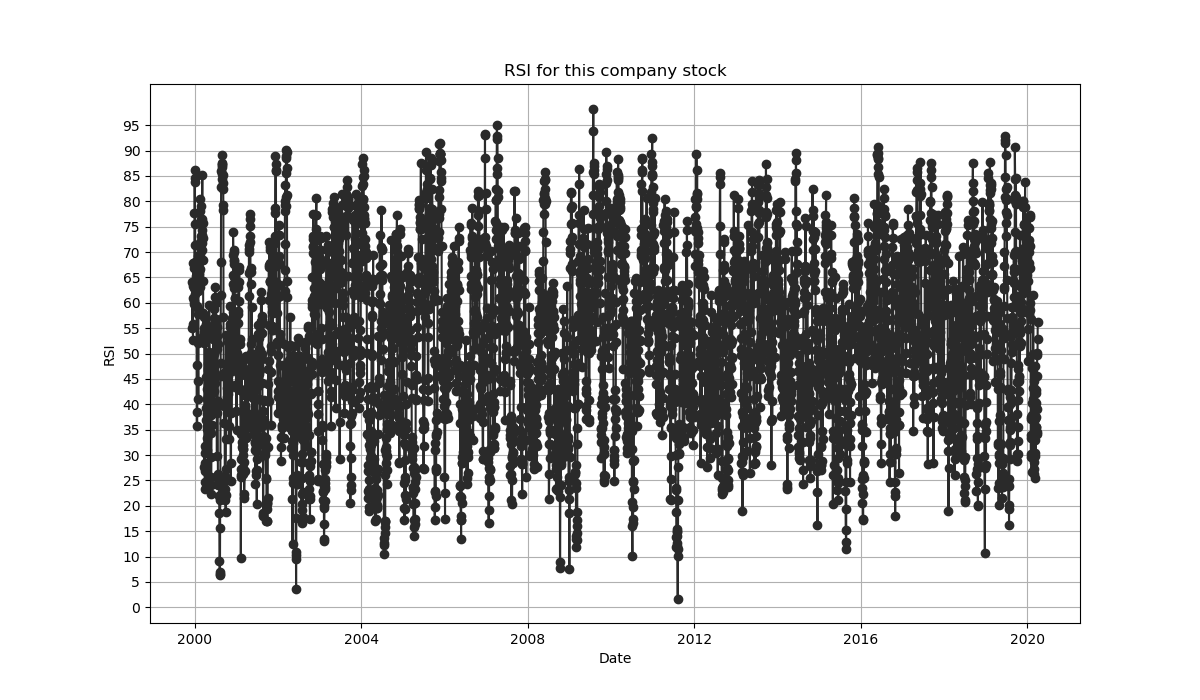
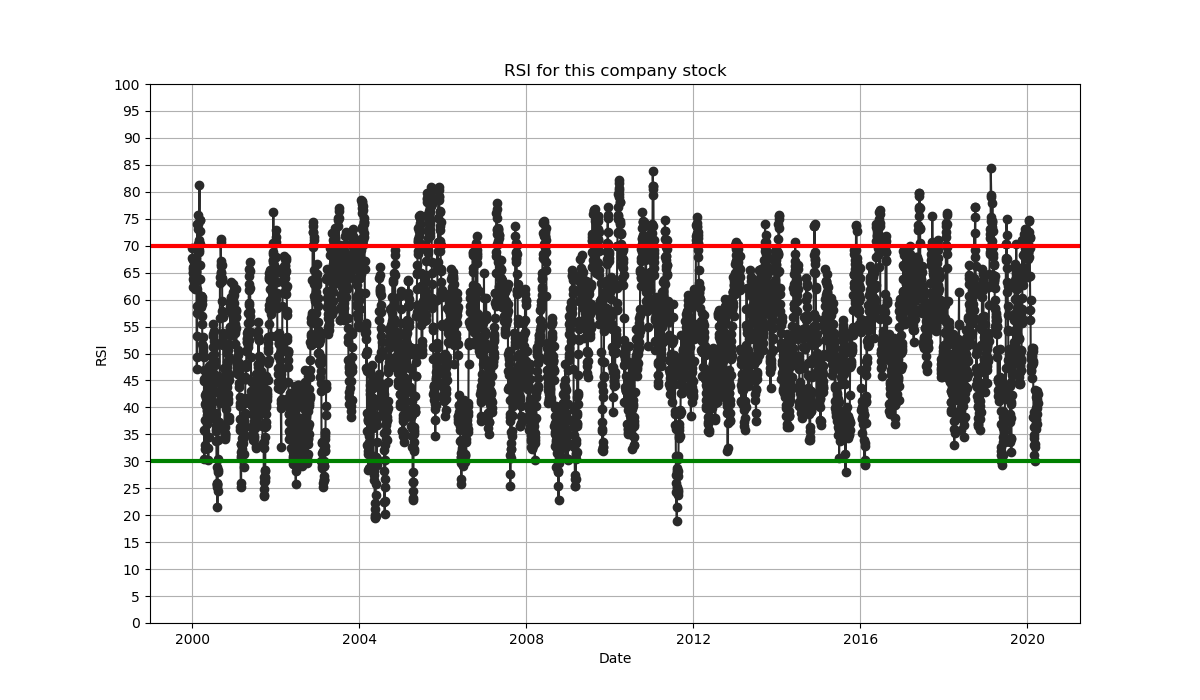
changed the RSI period from 14 to 30

diff --git a/RSI.java b/RSI.java
@@ -22,7 +22,7 @@ public class RSI {
             if (columns.length >= 7 && !columns[0].equals("Date")) {
                 double closePrice = Double.parseDouble(columns[4]);
                 closePrices.add(closePrice);
-                if (closePrices.size() > 14) {
+                if (closePrices.size() > 30) {
                     double upwards = 0.0;
                     double downwards = 0.0;
                     for (int i = 1; i < closePrices.size(); i++) {
@@ -33,8 +33,8 @@ public class RSI {
                             downwards += 0 - difference;
                         }
                     }
-                    double averageUpwards = upwards/14;
-                    double averageDownwards = downwards/14;
+                    double averageUpwards = upwards/30;
+                    double averageDownwards = downwards/30;
                     double relativestrenght;
                     if (averageDownwards == 0) { 
                         relativestrenght = 99.0;

diff --git a/rsi.py b/rsi.py
@@ -19,6 +19,8 @@ plt.plot(dates, rsi, color="#2a2a2a", marker="o", linestyle="-")
 plt.title("RSI for this company stock")
 plt.xlabel("Date")
 plt.ylabel("RSI")
-plt.yticks(range(0, 100, 5))
+plt.yticks(range(0, 105, 5))
+plt.axhline(70, color="red", linestyle="-", linewidth=3)
+plt.axhline(30, color="green", linestyle="-", linewidth=3)
 plt.grid(True)
 plt.savefig("RSI.png")
